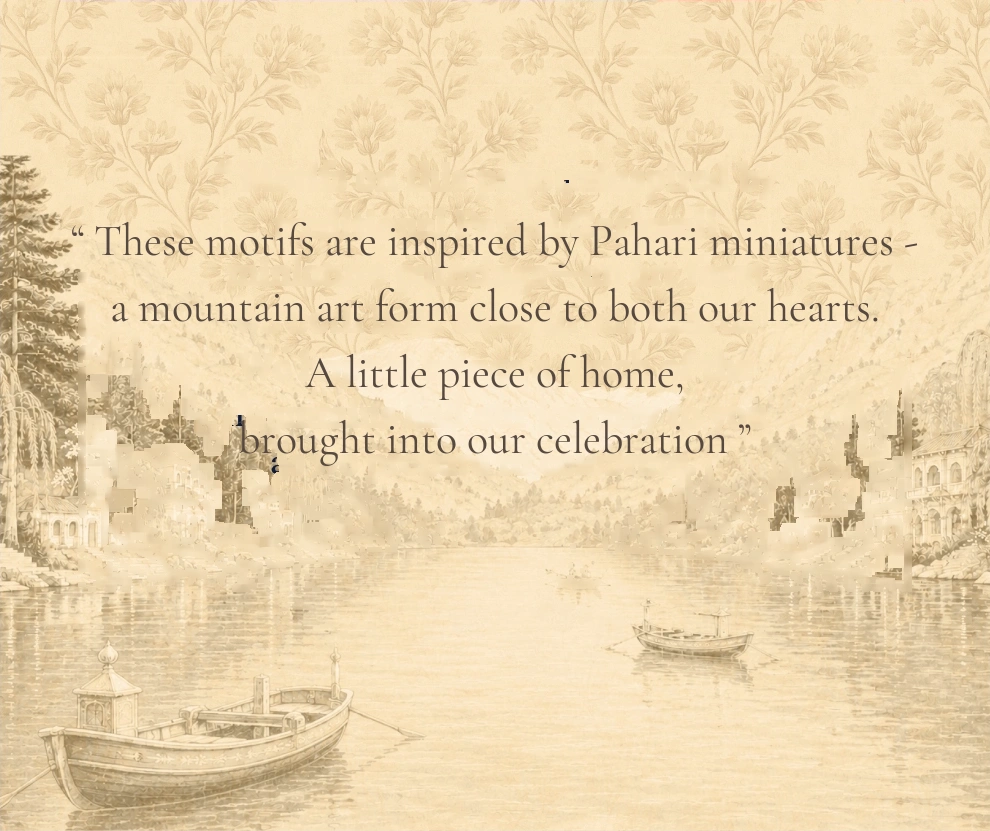
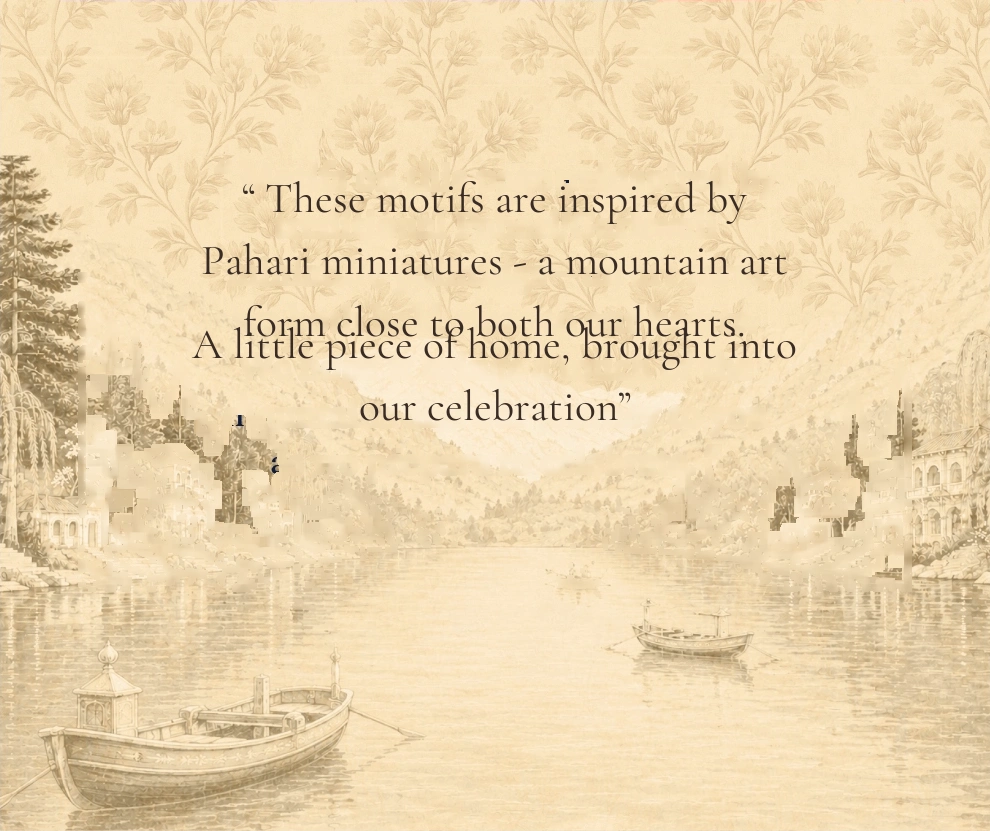
Align bottom section typography line height, paragraph break and opacity with Figma design

Changed region(s): [[0.1212, 0.361, 0.8788, 0.5415], [0.0909, 0.2106, 0.9091, 0.3309], [0.2424, 0.5114, 0.3636, 0.5716]]

diff --git a/celebrations.html b/celebrations.html
@@ -394,8 +394,8 @@ body {
   object-fit: cover !important;
   border-radius: 0 !important;
   mix-blend-mode: multiply !important;
-  opacity: 0.5 !important;
-  filter: contrast(1) brightness(1) !important;
+  opacity: 0.95 !important;
+  filter: contrast(1.02) brightness(0.99) !important;
   visibility: visible !important;
   vertical-align: bottom !important;
   margin: 0 !important;
@@ -1094,8 +1094,8 @@ body.sheet-modal-open .fixed-bottom-nav {
   <!-- ── 4. Full-Bleed Edge-to-Edge Epilogue Section (Figma Node 482:1720) ── -->
   <section class="celebrations-epilogue-section" aria-label="About the Pahari Motifs">
     <picture class="epilogue-art-wrap">
-      <source srcset="images/celebrations/pahari_motifs_footer.webp?v=80000" type="image/webp">
-      <img src="images/celebrations/pahari_motifs_footer.jpg?v=80000" 
+      <source srcset="images/celebrations/pahari_motifs_footer.webp?v=90000" type="image/webp">
+      <img src="images/celebrations/pahari_motifs_footer.jpg?v=90000" 
            alt="“ These motifs are inspired by Pahari miniatures - a mountain art form close to both our hearts. A little piece of home, brought into our celebration ”" 
            class="epilogue-footer-art" 
            width="990" 
